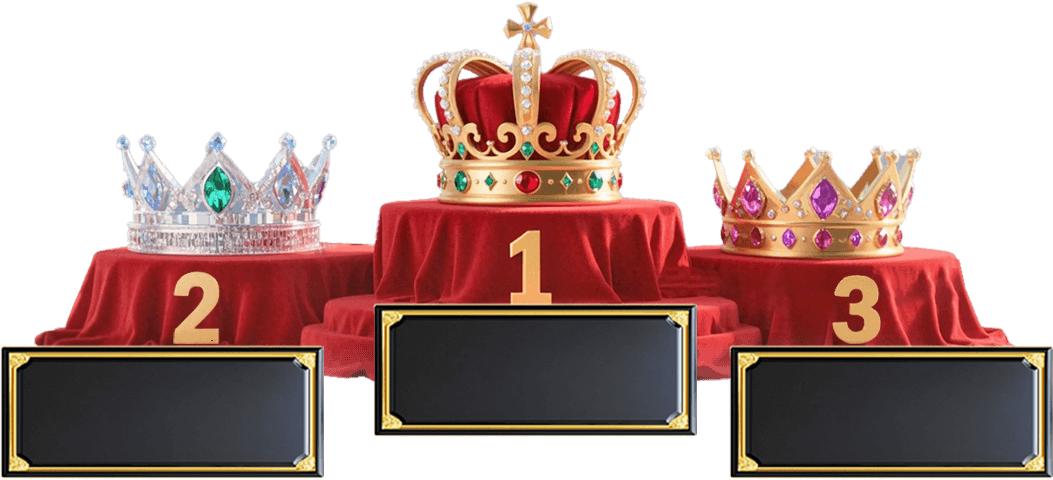
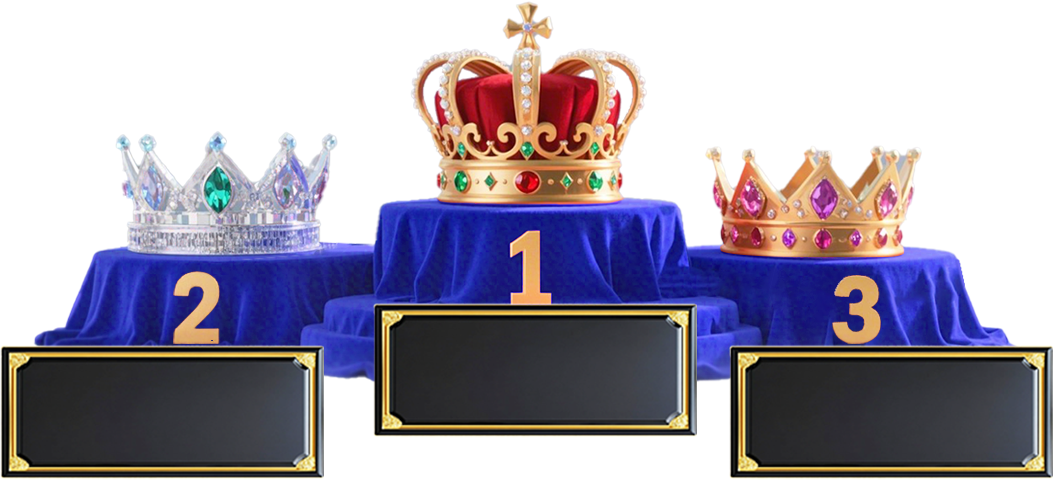
fix: [pk4] update promos

Changed region(s): [[0.0304, 0.3125, 0.9725, 0.8125]]

diff --git a/pk4-static-h5/src/pages/PromoPage.vue b/pk4-static-h5/src/pages/PromoPage.vue
@@ -100,7 +100,7 @@
                 v-if="
                   selectedPromo.redirectUrl !== 'pak-jackpot-aviator' &&
                   selectedPromo.redirectUrl !== 'spin-lucky-wheel' &&
-                  selectedPromo.redirectUrl !== 'pak-welcome-new-players' && 
+                  selectedPromo.redirectUrl !== 'pk4-welcome-new-players' && 
                   selectedPromo.redirectUrl !== 'pk4-month-beginning-deposit-rebate' && 
                   selectedPromo.redirectUrl !== 'pk4-app-login-phone-bonus' && 
                   selectedPromo.redirectUrl !== 'pk4-piggy-bank'
@@ -132,7 +132,7 @@
                   isJackpotAviator: selectedPromo.redirectUrl === 'pak-jackpot-aviator',
                   isNewPlayerAccDeposit: selectedPromo.redirectUrl === 'new-player-acc-deposit',
                   isDepositSpinnerRewards: selectedPromo.redirectUrl === 'pak-deposit-spinner-rewards',
-                  isNewPlayerSpinWheel: selectedPromo.redirectUrl === 'pak-welcome-new-players',
+                  isNewPlayerSpinWheel: selectedPromo.redirectUrl === 'pk4-welcome-new-players',
                   isSpinLuckyWheel:
                     selectedPromo.redirectUrl === 'spin-lucky-wheel' && ui.promoBg === 'spin-lucky-wheel-envelope',
                   isMonthlyBeginningDepositRebate: selectedPromo.redirectUrl === 'pk4-month-beginning-deposit-rebate',
@@ -449,6 +449,8 @@ export default defineComponent({
       } else {
         if (promo.redirectUrl && promo.redirectUrl.includes("page-vip")) {
           router.push({ path: "/vip" });
+        } else if (promo.redirectUrl && promo.redirectUrl.includes("page-invite")) {
+          router.push({ path: "/earn-money" });
         } else {
           if (promo.redirectUrl === "pak-redpacketrain") {
             isMoneyRainModal.value = true;
@@ -1222,6 +1224,11 @@ export default defineComponent({
             display: none;
           }
         }
+        &.isNewPlayerSpinWheel {
+          margin: 0;
+          width: 100%;
+          padding: 25px;
+        }
         &.isNewPlayerAccDeposit {
           width: 100%;
 
@@ -1307,7 +1314,8 @@ export default defineComponent({
             padding: 5px;
             text-align: center;
 
-            background: linear-gradient(180deg, #21ef89 0%, #33562d 100%);
+            // background: linear-gradient(180deg, #21ef89 0%, #33562d 100%);
+            background: linear-gradient(180deg, #214def, #3978fe);
 
             &:first-child {
               border-top-left-radius: 8px;
@@ -1321,7 +1329,7 @@ export default defineComponent({
           td {
             padding: 5px;
             text-align: center;
-            background-color: #1c241b;
+            background-color: #5278cd1a;
             border: 1px solid #2e3039;
           }
         }

diff --git a/pk4-static-h5/src/components/hotpromo/jackpotAviator/HistoryTable.vue b/pk4-static-h5/src/components/hotpromo/jackpotAviator/HistoryTable.vue
@@ -91,7 +91,7 @@ const historyList = () => {
       color: #ffffff;
       height: 22px;
       font-size: 12px;
-      background-color: #00186a !important;
+      background: linear-gradient(180deg, #214aef, #161a8c) !important;
       &:hover {
         color: unset;
         .betVolume {
